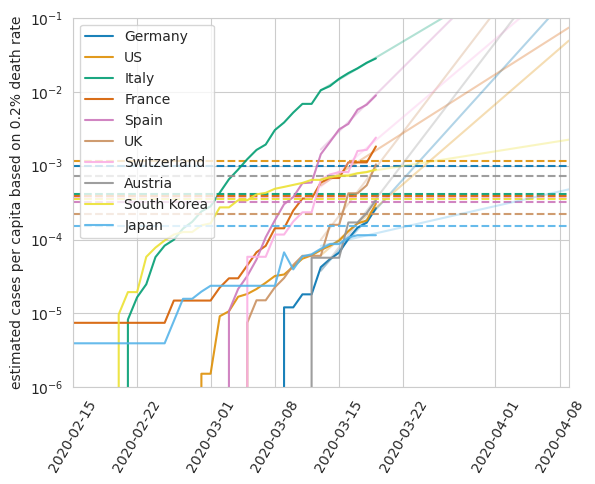
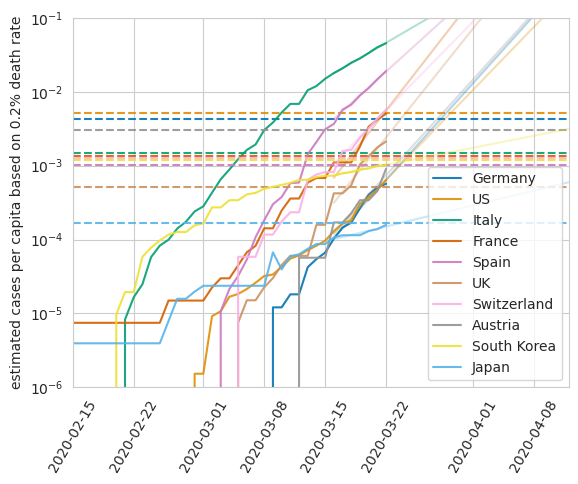
Add daily infected plot

diff --git a/kovid.py b/kovid.py
@@ -123,6 +123,20 @@ def get_spread_rate_by_country(country, data):
     ts['Date'] = pd.to_datetime(date)
     return ts
 
+def get_new_infections_by_country(country, data):
+    data_country = data[data['Country/Region'] == country]
+    # Make sure, it's sorted
+    data_country = data_country.sort_values('Date')
+    confirmed = np.array(data_country.Confirmed)
+    date = np.array(data_country.Date)
+    infections = confirmed[1:] - confirmed[:-1]
+    date = date[:-1]
+    ts = pd.DataFrame()
+    ts['New Infections'] = infections
+    ts['Date'] = date
+    ts['Date'] = pd.to_datetime(date)
+    return ts
+
 def get_confirmed_by_country(country, data):
     data_country = data[data['Country/Region'] == country]
     # Make sure, it's sorted
@@ -188,6 +202,61 @@ def plot_spread_rate(data, country_list, avg=5, date_lim=None):
     plt.savefig('png/'+fname, bbox_inches='tight')
     plt.close()
 
+def plot_new_infected(data, country_list, avg=5, date_lim=None, scale='log', forecast=21, ext_base=7):
+    fig = plt.figure()
+    ax = fig.add_subplot()
+
+    for c in country_list.keys():
+        ts = get_new_infections_by_country(c, data)
+
+        nr_inhabitants = country_list[c][0]
+        icus_per_capita = country_list[c][1]
+
+        # 6% of Covid-19 patients require ICU treatment for one week on average
+        icu_rate = 0.06
+        icu_time = 7  # days
+        icu_limit = icus_per_capita/icu_rate/icu_time
+
+        # Derive date limits if none are given
+        if date_lim is None:
+            date_lim = [np.min(ts.Date), np.max(ts.Date) + pd.Timedelta(forecast, unit='d')]
+
+        infected = np.array(ts["New Infections"])/nr_inhabitants
+
+        # Extrapolate based on the last 7 days
+        _f = log_extrapol(np.arange(ext_base), infected[-ext_base:])
+        f = lambda d: _f(d.days)
+        # print(max(ts.Date) - pd.Timedelta(ext_base, unit='d'))
+        ext_range = pd.date_range(max(ts.Date) - pd.Timedelta(ext_base, unit='d'),
+                                  max(ts.Date) + pd.Timedelta(forecast, unit='d'))
+
+        if len(country_list) == 1:
+            pl, = ax.plot(ts.Date, infected, color='black', alpha=.9, label=c)
+        else:
+            pl, = ax.plot(ts.Date, infected, alpha=.9, label=c)
+        ax.plot(ext_range,
+                f(ext_range - max(ts.Date) + pd.Timedelta(ext_base-1, unit='d')),
+                '-',
+                color=pl.get_color(),
+                alpha=.3)
+        ax.plot(date_lim, 2*[icu_limit], '--', color=pl.get_color(), alpha=.9)
+
+    ax.tick_params(axis='x', rotation=60)
+    ax.set_xlim(date_lim)
+    # ax.set_ylim([1e-8, 1e-1])
+    ax.grid(True)
+    if scale == 'log':
+        ax.set_yscale('log')
+    if len(country_list) == 1:
+        ax.set_ylabel('new infections per capita ({})'.format(country_list[0]))
+        fname = '{}_new_infections.png'.format(country_list[0].replace(' ', '_').lower())
+    else:
+        ax.set_ylabel('new infections per capita')
+        fname = '{}_new_infections.png'.format('countries')
+        ax.legend()
+    plt.savefig('png/'+fname, bbox_inches='tight')
+    plt.close()
+
 def plot_confirmed(data, country_list, avg=5, date_lim=None, scale='log', forecast=21, ext_base=7):
     fig = plt.figure()
     ax = fig.add_subplot()
@@ -200,7 +269,7 @@ def plot_confirmed(data, country_list, avg=5, date_lim=None, scale='log', foreca
 
         # 80% default occupation, 6% of Covid-19 patients require ICU treatment
         icu_rate = 0.06
-        icu_limit = 0.2*icus_per_capita/icu_rate
+        icu_limit = icus_per_capita/icu_rate
 
         # Derive date limits if none are given
         if date_lim is None:
@@ -255,7 +324,7 @@ def plot_estimated_from_delay(data, country_list, avg=5, date_lim=None, scale='l
 
         # 80% default occupation, 6% of Covid-19 patients require ICU treatment
         icu_rate = 0.06
-        icu_limit = 0.2*icus_per_capita/icu_rate
+        icu_limit = icus_per_capita/icu_rate
 
         # Derive date limits if none are given
         if date_lim is None:
@@ -313,7 +382,7 @@ def plot_estimated_from_deaths(data, country_list, avg=5, date_lim=None, scale='
 
         # 80% default occupation, 6% of Covid-19 patients require ICU treatment
         icu_rate = 0.06
-        icu_limit = 0.2*icus_per_capita/icu_rate
+        icu_limit = icus_per_capita/icu_rate
 
         # Derive date limits if none are given
         if date_lim is None:
@@ -411,6 +480,7 @@ if __name__ == '__main__':
 
     # https://link.springer.com/article/10.1007/s00134-012-2627-8
     # https://link.springer.com/article/10.1007/s00134-015-4165-7
+    # https://en.wikipedia.org/wiki/List_of_countries_by_hospital_beds#Numbers
     country_list = {'Germany': [82.79e6, 29.2/100000],
                     'US': [327.2e6, 34.2/100000],
                     'Italy': [60.48e6, 12.5/100000],
@@ -427,11 +497,19 @@ if __name__ == '__main__':
                     # 'China': [1386e6, 3.6/100000],
                     }
 
-    # sbn.set_palette(sbn.color_palette(palette="pastel", n_colors=len(country_list), desat=None))
+    # Derive the COVID ICU capacities assuming a minimum of 3.5 ICUs per 100000
+    # for regular hospital cases and all other ICUs available for corona
+    # patients. This is an arbitrary number that seems somehow reasonable to me
+    # given that some contries can maintain a good-ish health system with only
+    # 4.5 ICUs per 100000 (e.g. Japan, Portugal)
+    for c in country_list.keys():
+        country_list[c][1] -= 3.5/100000
+
     sbn.set_style("whitegrid")
     sbn.set_palette(sbn.color_palette(palette="colorblind", n_colors=len(country_list), desat=1))
 
     # Cases
+    plot_new_infected(data, country_list, avg=5, date_lim=date_lim, forecast=forecast, ext_base=extrapolation_base)
     plot_confirmed(data, country_list, avg=5, date_lim=date_lim, forecast=forecast, ext_base=extrapolation_base)
     plot_estimated_from_deaths(data, country_list, avg=5, date_lim=date_lim, forecast=forecast, ext_base=extrapolation_base)
     # plot_estimated_from_delay(data, country_list, avg=5, date_lim=date_lim, forecast=forecast, ext_base=extrapolation_base)
@@ -440,8 +518,8 @@ if __name__ == '__main__':
     # Rates
     date_lim = pd.to_datetime([pd.Timestamp('2020-02-15'), pd.Timestamp(np.max(np.array(data.Date)))])
     country_list_rates = { c: country_list[c] for c in ['Germany',
-                                                    'US',
-                                                    'South Korea',
-                                                    'Italy',
-                                                    ]}
+                                                        'US',
+                                                        'South Korea',
+                                                        'Italy',
+                                                        ]}
     plot_spread_rate(data, country_list_rates, avg=3, date_lim=date_lim)
